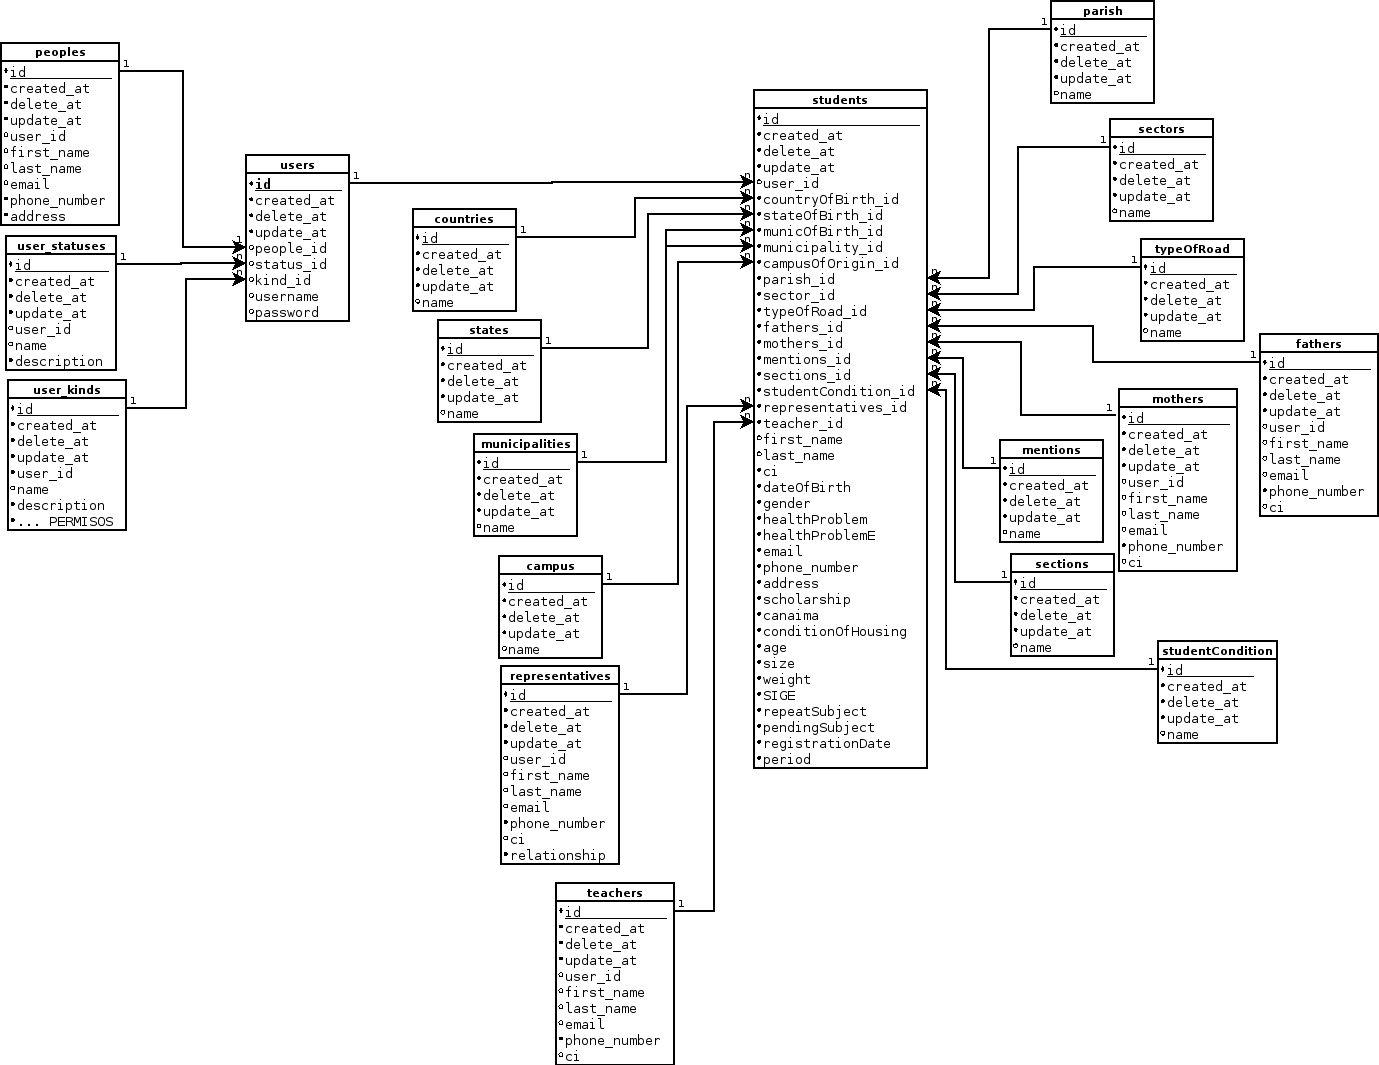
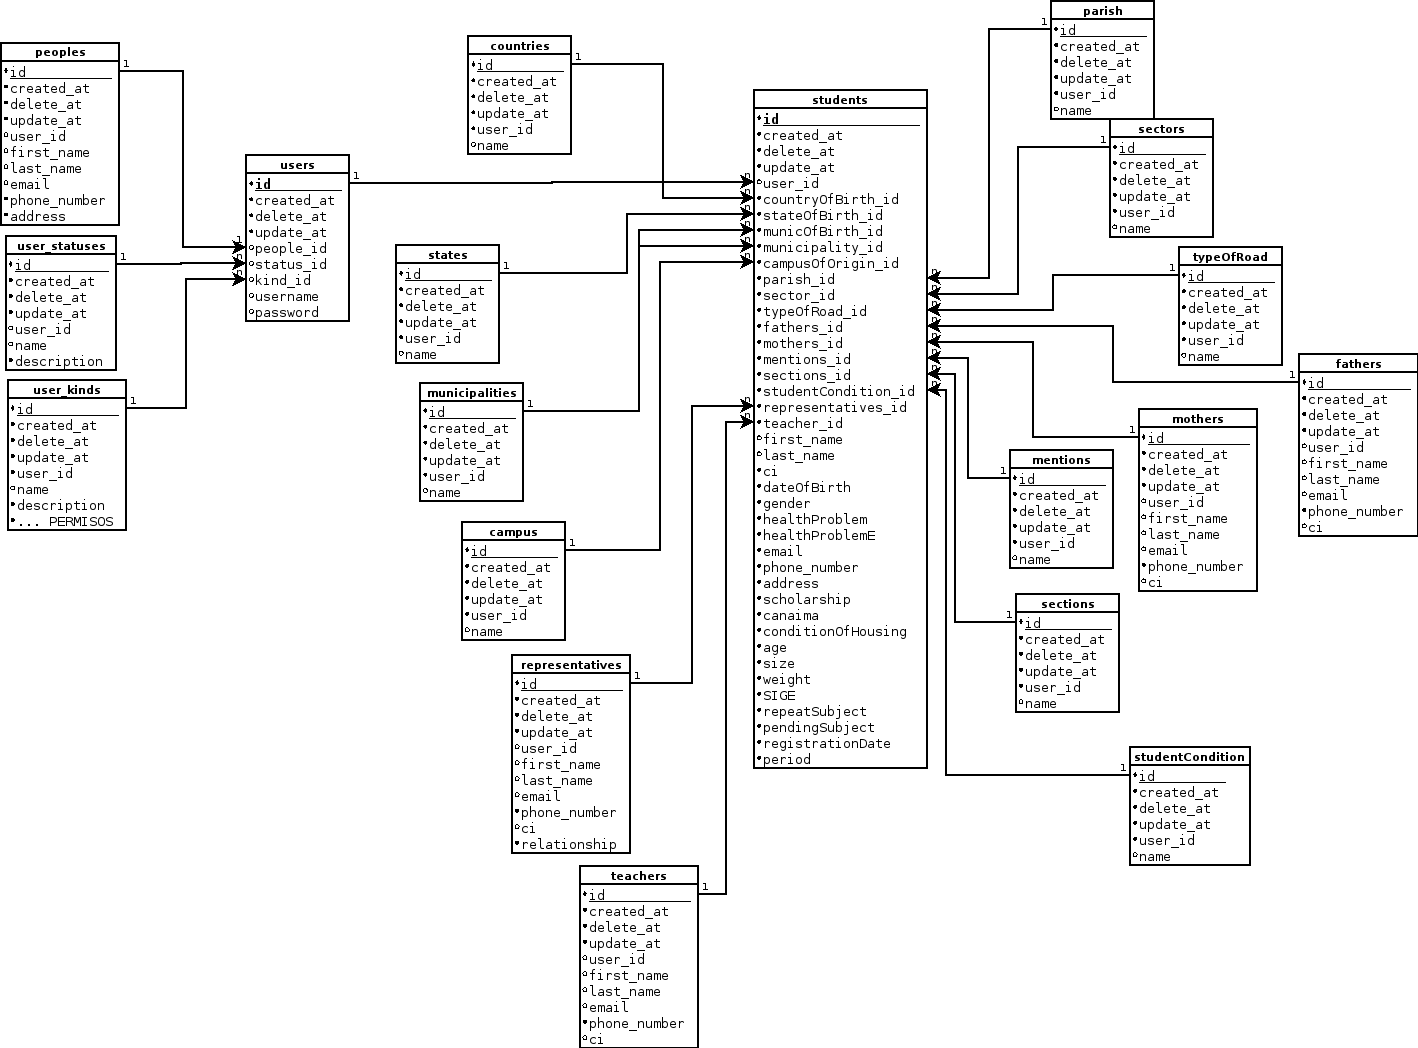
Actualizaicon de Diagrama Entidad-Relacion, Modulo de creacion de Tablas, Se agrego un modulo de Verificacion Basica para funcionamiento del Servidor

Changed region(s): [[0.0, 0.0, 1.0, 1.0]]

diff --git a/utils/flagControl.go b/utils/flagControl.go
@@ -2,27 +2,46 @@ package utils
 
 import (
 	"flag"
-)
+	"os"
+	"strings"
 
-//RecreateTables Decide si se desea volver a Crear las tablas de la Base de Datos.
-var RecreateTables string
+	"github.com/arthurnavah/PreInscripcionRG-API/databases"
+)
 
 //CreateTables Decide si se desea Crear las tablas de la Base de Datos.
 var CreateTables string
+
+//DropTables Decide si se desea borrar las tablas de la Base de Datos.
+var DropTables string
+
+//RecreateTables Decide si se desea volver a Crear las tablas de la Base de Datos.
+var RecreateTables string
 
 //Port Contiene el Puerto en el que desea ejecutar el Servidor.
 var Port int
 
 //FlagControl Controla las banderas del ejecutable.
 func FlagControl() {
-	flag.StringVar(&CreateTables, "createTables", "no", "Genera las tablas necesarias")
-	flag.StringVar(&RecreateTables, "recreateTables", "no", "Recrea las tablas necesarias")
+	flag.StringVar(&CreateTables, "createTables", "NO", "Genera las tablas necesarias")
+	flag.StringVar(&DropTables, "dropTables", "NO", "Borra las tablas de la base de datos")
+	flag.StringVar(&RecreateTables, "recreateTables", "NO", "Recrea las tablas necesarias")
 	flag.IntVar(&Port, "port", 8080, "Declara el puerto para el servidor web")
 	flag.Parse()
-	if CreateTables == "yes" {
-		createTables()
+
+	CreateTables = strings.ToUpper(CreateTables)
+	DropTables = strings.ToUpper(DropTables)
+	RecreateTables = strings.ToUpper(RecreateTables)
+
+	if CreateTables == "YES" {
+		databases.CreateTables()
+		os.Exit(0)
 	}
-	if RecreateTables == "yes" {
-		recreateTables()
+	if DropTables == "YES" {
+		databases.DropTables()
+		os.Exit(0)
+	}
+	if RecreateTables == "YES" {
+		databases.RecreateTables()
+		os.Exit(0)
 	}
 }

diff --git a/utils/verificationBasic.go b/utils/verificationBasic.go
@@ -1,0 +1,63 @@
+package utils
+
+import (
+	"fmt"
+	"os"
+	"strings"
+
+	"gitlab.com/arthurnavah/Production-Arthur/Inventario-API/databases"
+	"gitlab.com/arthurnavah/Production-Arthur/Inventario-API/models"
+)
+
+//VerificationBasic Hace las verificaciones basicas para el funcionamiento del sistema.
+func VerificationBasic() {
+	//Comprobacion de Tablas.
+	tablesExist := TablesIsExist(
+		models.People{},
+		models.UserKind{},
+		models.UserStatus{},
+		models.User{},
+	)
+	//-----------------------
+
+	if tablesExist != true {
+		var t string
+		fmt.Println("Se detecto la ausencia de algunas Tablas necesarias en la Base de Datos, ¿Desea crearlas? (Yes/No)")
+		fmt.Scan(&t)
+		t = strings.ToUpper(t)
+		if t == "YES" {
+			databases.CreateTables()
+		} else {
+			fmt.Println("No se puede continuar sin las tablas necesarias")
+			os.Exit(0)
+		}
+
+	}
+}
+
+//TablesIsExist Comprueba la existencia de las tablas/estructuras que se le pasen como parametros, Devuelve un bool.
+func TablesIsExist(modelss ...interface{}) bool {
+	allExist := true
+
+	//Se obtiene la conexion a la DB.
+	db := databases.GetConnectionDB()
+	defer db.Close()
+
+	//Sobreescribe el slice de parametros con un booleano si existe o no.
+	for i, v := range modelss {
+		existTable := db.HasTable(v)
+
+		modelss[i] = existTable
+	}
+
+	//Se recorre el slice sobreescrito, Si se encuentra un valor false significa que una tabla no existe.
+	for _, v := range modelss {
+		if v == false {
+			allExist = false
+		}
+	}
+
+	//Se devuelve la variable allExist, Si dentro de el slice de parametros habia una tabla que no existia, allExist
+	// es false.
+	return allExist
+}

diff --git a/databases/createTables.go b/databases/createTables.go
@@ -2,27 +2,35 @@ package databases
 
 import (
 	"log"
+
 	"github.com/arthurnavah/PreInscripcionRG-API/models"
 )
 
-//Migrate Crea las tablas necesarias.
-func createTables() {
+//CreateTables Crea las tablas necesarias.
+func CreateTables() {
 	log.Println("---------------------------------------")
-	log.Println("- Generando Tablas...                 -")
+	log.Println("-        Generando Tablas...          -")
 
+	//Se obtiene la conexion a la DB.
 	db := GetConnectionDB()
 	defer db.Close()
+
+	//Se crean las tablas.
 	db.CreateTable(&models.People{})
 	db.CreateTable(&models.UserKind{})
 	db.CreateTable(&models.UserStatus{})
 	db.CreateTable(&models.User{})
+	//----------------------
 
+	//Relaciones y llaves foraneas.
 	db.Model(&models.User{}).Related(&models.People{})
 
 	db.Model(&models.User{}).AddForeignKey("people_id", "peoples(id)", "RESTRICT", "RESTRICT")
 	db.Model(&models.User{}).AddForeignKey("kind_id", "user_kinds(id)", "RESTRICT", "RESTRICT")
 	db.Model(&models.User{}).AddForeignKey("status_id", "user_statuses(id)", "RESTRICT", "RESTRICT")
+	//------------------------------
 
+	//Records basicos necesarios.
 	kind := &models.UserKind{}
 	kind.Name = "ESPECTADOR"
 	kind.Description = "No tiene ningun Permiso"
@@ -33,8 +41,9 @@ func createTables() {
 
 	db.Create(&kind)
 	db.Create(&status)
+	//---------------------------
 
+	log.Println("-                 -                   -")
 	log.Println("- ...Finalizo la Generacion de Tablas -")
 	log.Println("---------------------------------------")
-	log.Println(" 	")
 }

diff --git a/preinscripcion.go b/preinscripcion.go
@@ -7,11 +7,14 @@ import (
 
 func main() {
 	//FlagControl Controla las banderas para el ejecutable.
-	//	--createTables yes	; Inicia la creacion de las tablas necesarias.
-	//	--recreateTables yes	; Recrea las tablas necesarias.
-	//	--dropTables yes	; Borra las tablas necesarias.
-	//	--port 8181	;	Cambia el puerto por defecto del servidor.
+	//	--createTables yes ; Inicia la creacion de las tablas necesarias.
+	//	--recreateTables yes ; Recrea las tablas necesarias.
+	//	--dropTables yes ; Borra las tablas necesarias.
+	//	--port 8181	; Cambia el puerto por defecto del servidor.
 	utils.FlagControl()
+
+	//VerificationBasic Hace las verificaciones basicas para el funcionamiento del sistema.
+	utils.VerificationBasic()
 
 	//router Contiene una instancia ServerMux con todas las rutas ya definidas.
 	router := routes.InitRoutes()

diff --git a/databases/dropTables.go b/databases/dropTables.go
@@ -1,0 +1,28 @@
+package databases
+
+import (
+	"log"
+
+	"gitlab.com/arthurnavah/Production-Arthur/Inventario-API/models"
+)
+
+//DropTables elimina las tablas de la base de datos.
+func DropTables() {
+	log.Println("---------------------------------------")
+	log.Println("-         Eliminando tablas..		   -")
+
+	//Se obtiene la conexion a la DB.
+	db := GetConnectionDB()
+	defer db.Close()
+
+	//Se eliminan las tablas.
+	db.DropTable(&models.People{})
+	db.DropTable(&models.UserKind{})
+	db.DropTable(&models.UserStatus{})
+	db.DropTable(&models.User{})
+	//------------------------
+
+	log.Println("-                 -                    -")
+	log.Println("- ...Finalizo la eliminacion de Tablas -")
+	log.Println("----------------------------------------")
+}

diff --git a/databases/recreateTables.go b/databases/recreateTables.go
@@ -1,23 +1,10 @@
 package databases
 
-import (
-	"log"
-
-	"github.com/arthurnavah/PreInscripcionRG-API/models"
-)
-
-//recreateTables Elimina y Crea las tablas de la base de datos.
-func recreateTables() {
-	log.Println("---------------------------------------")
-	log.Println("- Recreando tablas...                 -")
-
+//RecreateTables Elimina y Crea las tablas de la base de datos.
+func RecreateTables() {
 	db := GetConnectionDB()
 	defer db.Close()
-	//Se borran las tablas.
-	db.DropTable(&models.User{})
-	db.DropTable(&models.People{})
-	db.DropTable(&models.UserKind{})
-	db.DropTable(&models.UserStatus{})
 
-	createTables()
+	DropTables()
+	CreateTables()
 }

diff --git a/models/student/countries.go b/models/student/countries.go
@@ -1,0 +1,14 @@
+package student
+
+import "time"
+
+//Countries Paises de la aplicacion.
+type Countries struct {
+	ID        uint `json:"id" gorm:"primary_key"`
+	CreatedAt time.Time
+	UpdatedAt time.Time
+	DeletedAt *time.Time `sql:"index"`
+
+	UserID uint   `json:"userID" gorm:"type:integer"`
+	Name   string `json:"name" gorm:"not null;unique;type:varchar(50)"`
+}

diff --git a/models/student/student.go b/models/student/student.go
@@ -1,4 +1,4 @@
-package models
+package student
 
 import "time"
 
